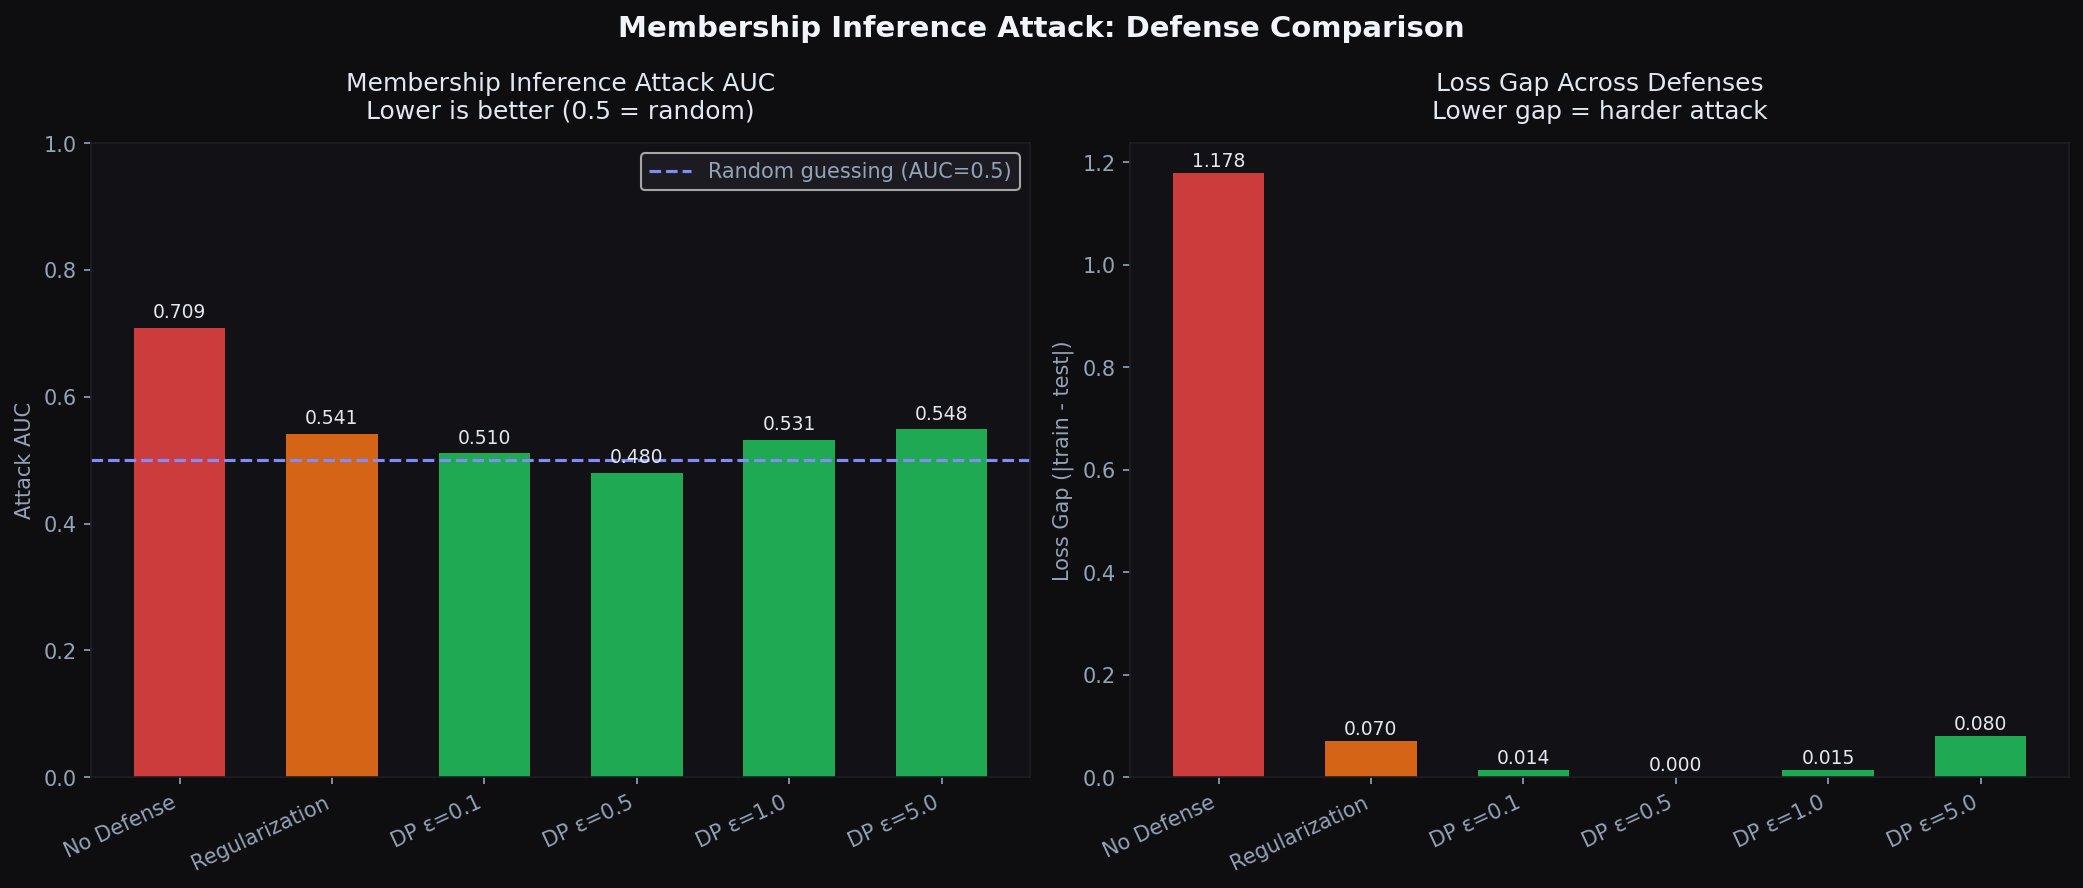
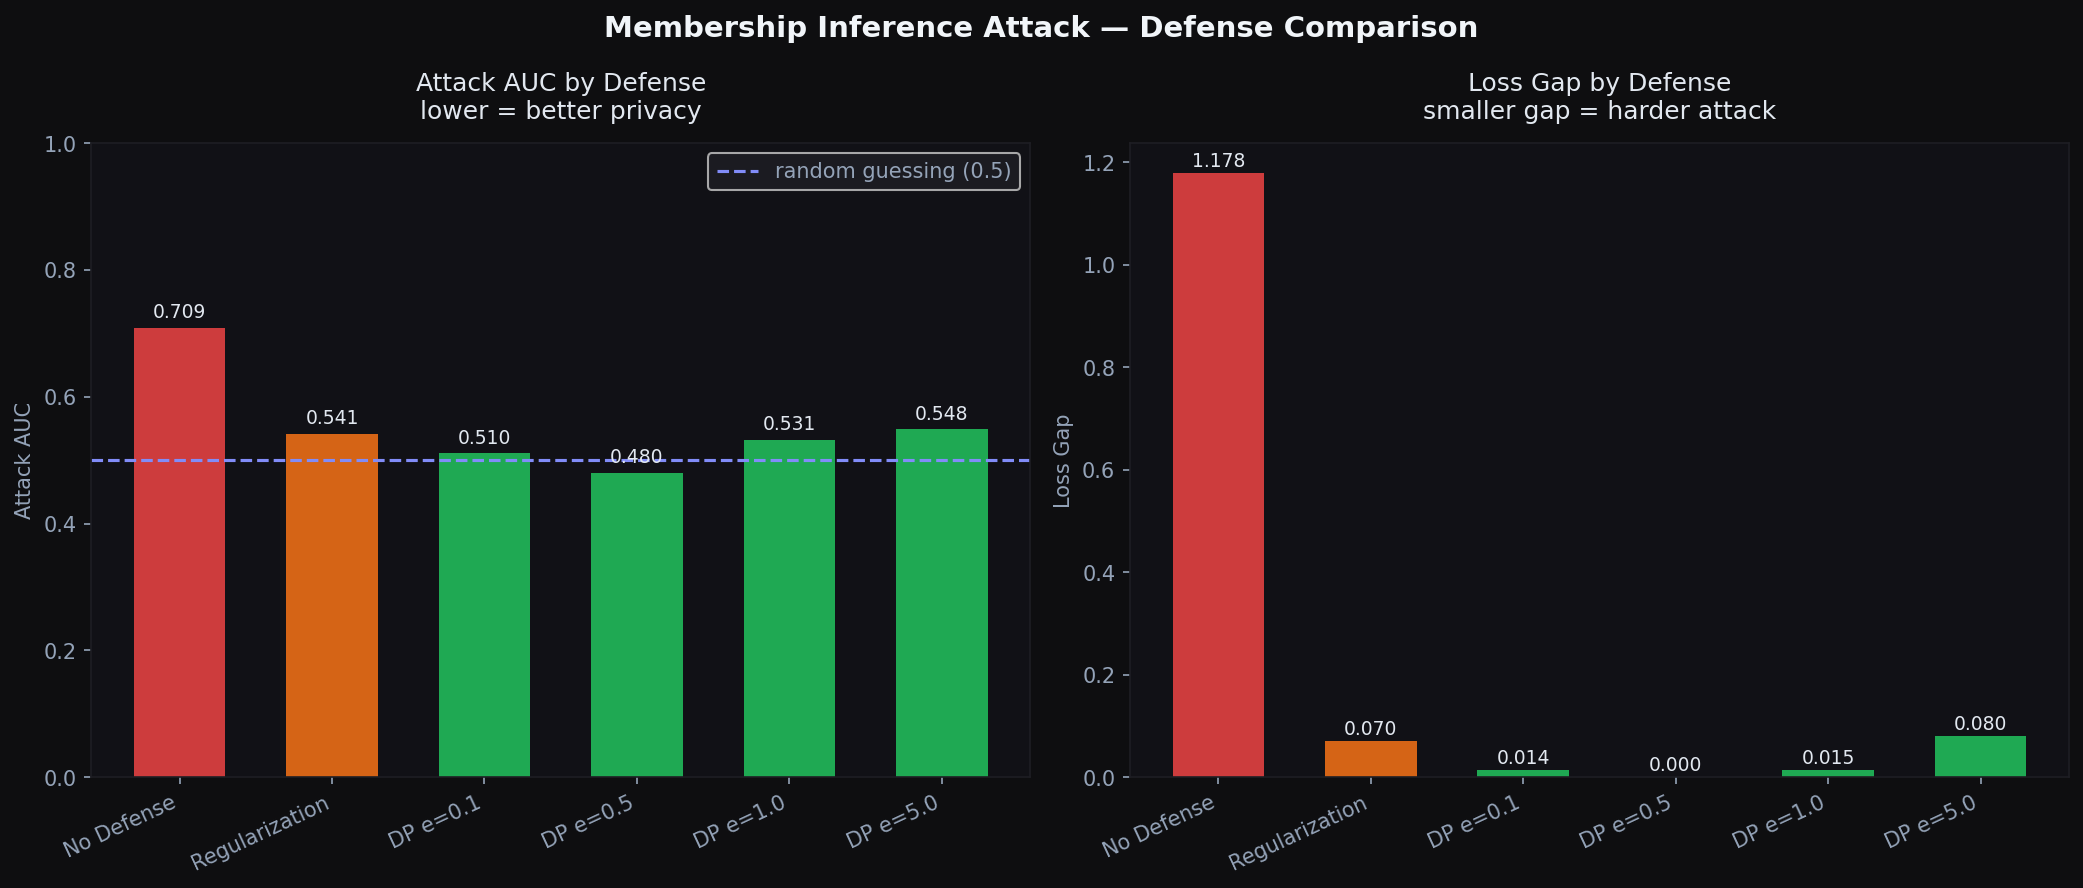
fix graph

diff --git a/main.py b/main.py
@@ -9,7 +9,7 @@ from defense import train_dp_model
 def run_all_experiments(X_train, y_train, X_test, y_test):
     results = {}
 
-    # no defense
+    # no defense: baseline to compare everything against
     model = train_target_model(X_train, y_train, overfit=True)
     results["No Defense"] = run_membership_inference_attack(
         model, X_train, y_train, X_test, y_test)
@@ -19,10 +19,10 @@ def run_all_experiments(X_train, y_train, X_test, y_test):
     results["Regularization"] = run_membership_inference_attack(
         model, X_train, y_train, X_test, y_test)
 
-    # dp with different epsilons
+    # dp at different epsilon values: want to see where the attack breaks down
     for epsilon in [0.1, 0.5, 1.0, 5.0]:
         model = train_dp_model(X_train, y_train, epsilon=epsilon)
-        results[f"DP ε={epsilon}"] = run_membership_inference_attack(
+        results[f"DP e={epsilon}"] = run_membership_inference_attack(
             model, X_train, y_train, X_test, y_test)
 
     return results
@@ -30,16 +30,17 @@ def run_all_experiments(X_train, y_train, X_test, y_test):
 def plot_results(results):
     labels = list(results.keys())
     aucs = [results[k]["attack_auc"] for k in labels]
-    gaps = [results[k]["loss_gap"] for k in labels]
+    gaps = [abs(results[k]["loss_gap"]) for k in labels]
 
+    # color code by defense type
     colors = []
     for k in labels:
         if k == "No Defense":
-            colors.append("#ef4444")
+            colors.append("#ef4444")      # red: dangerous!!! 
         elif k == "Regularization":
-            colors.append("#f97316")
+            colors.append("#f97316")      # orange: partial defense
         else:
-            colors.append("#22c55e")
+            colors.append("#22c55e")      # green: dp works yay
 
     fig, (ax1, ax2) = plt.subplots(1, 2, figsize=(14, 6))
     fig.patch.set_facecolor("#0e0e10")
@@ -52,12 +53,12 @@ def plot_results(results):
         ax.spines["left"].set_color("#1e1e24")
         ax.spines["right"].set_color("#1e1e24")
 
-    # chart 1: attack AUC
+    # chart 1: attack AUC across all defenses
     bars = ax1.bar(labels, aucs, color=colors, alpha=0.85, width=0.6)
     ax1.axhline(y=0.5, color="#818cf8", linestyle="--",
-                linewidth=1.5, label="Random guessing (AUC=0.5)")
+                linewidth=1.5, label="random guessing (0.5)")
     ax1.set_ylabel("Attack AUC", color="#94a3b8")
-    ax1.set_title("Membership Inference Attack AUC\nLower is better (0.5 = random)",
+    ax1.set_title("Attack AUC by Defense\nlower = better privacy",
                   color="#e2e8f0", pad=12)
     ax1.set_ylim(0, 1)
     ax1.legend(facecolor="#1e1e24", labelcolor="#94a3b8")
@@ -68,29 +69,29 @@ def plot_results(results):
                 f"{val:.3f}", ha="center", va="bottom",
                 color="#e2e8f0", fontsize=9)
 
-    # chart 2: loss gap
-    gaps_abs = [abs(g) for g in gaps]
-    bars2 = ax2.bar(labels, gaps_abs, color=colors, alpha=0.85, width=0.6)
-    ax2.set_ylabel("Loss Gap (|train - test|)", color="#94a3b8")
-    ax2.set_title("Loss Gap Across Defenses\nLower gap = harder attack",
+    # chart 2: loss gap across all defenses
+    # this shows why the attack works or doesn't
+    bars2 = ax2.bar(labels, gaps, color=colors, alpha=0.85, width=0.6)
+    ax2.set_ylabel("Loss Gap", color="#94a3b8")
+    ax2.set_title("Loss Gap by Defense\nsmaller gap = harder attack",
                   color="#e2e8f0", pad=12)
     ax2.set_xticklabels(labels, rotation=25, ha="right", color="#94a3b8")
 
-    for bar, val in zip(bars2, gaps_abs):
+    for bar, val in zip(bars2, gaps):
         ax2.text(bar.get_x() + bar.get_width()/2, bar.get_height() + 0.005,
                 f"{val:.3f}", ha="center", va="bottom",
                 color="#e2e8f0", fontsize=9)
 
-    plt.suptitle("Membership Inference Attack: Defense Comparison",
+    plt.suptitle("Membership Inference Attack — Defense Comparison",
                 color="#f1f5f9", fontsize=14, fontweight="bold")
     plt.tight_layout()
     plt.savefig("results.png", dpi=150, bbox_inches="tight",
                 facecolor="#0e0e10")
     plt.show()
-    print("\nChart saved to results.png")
+    print("saved to results.png")
 
 if __name__ == "__main__":
-    print("Generating dataset...")
+    print("generating dataset...")
     X, y = generate_dataset()
     X_train, X_test, y_train, y_test = train_test_split(
         X, y, test_size=0.3, random_state=42
@@ -99,12 +100,12 @@ if __name__ == "__main__":
     X_train = scaler.fit_transform(X_train)
     X_test = scaler.transform(X_test)
 
-    print("Running experiments...")
+    print("running experiments...")
     results = run_all_experiments(X_train, y_train, X_test, y_test)
 
-    print("\n Final Results")
+    print("\n--- results ---")
     for name, r in results.items():
-        print(f"{name:20s} | AUC: {r['attack_auc']:.3f} | Gap: {r['loss_gap']:.3f}")
+        print(f"{name:20s} | AUC: {r['attack_auc']:.3f} | gap: {r['loss_gap']:.3f}")
 
-    print("\nGenerating visualization...")
+    print("\nplotting...")
     plot_results(results)
